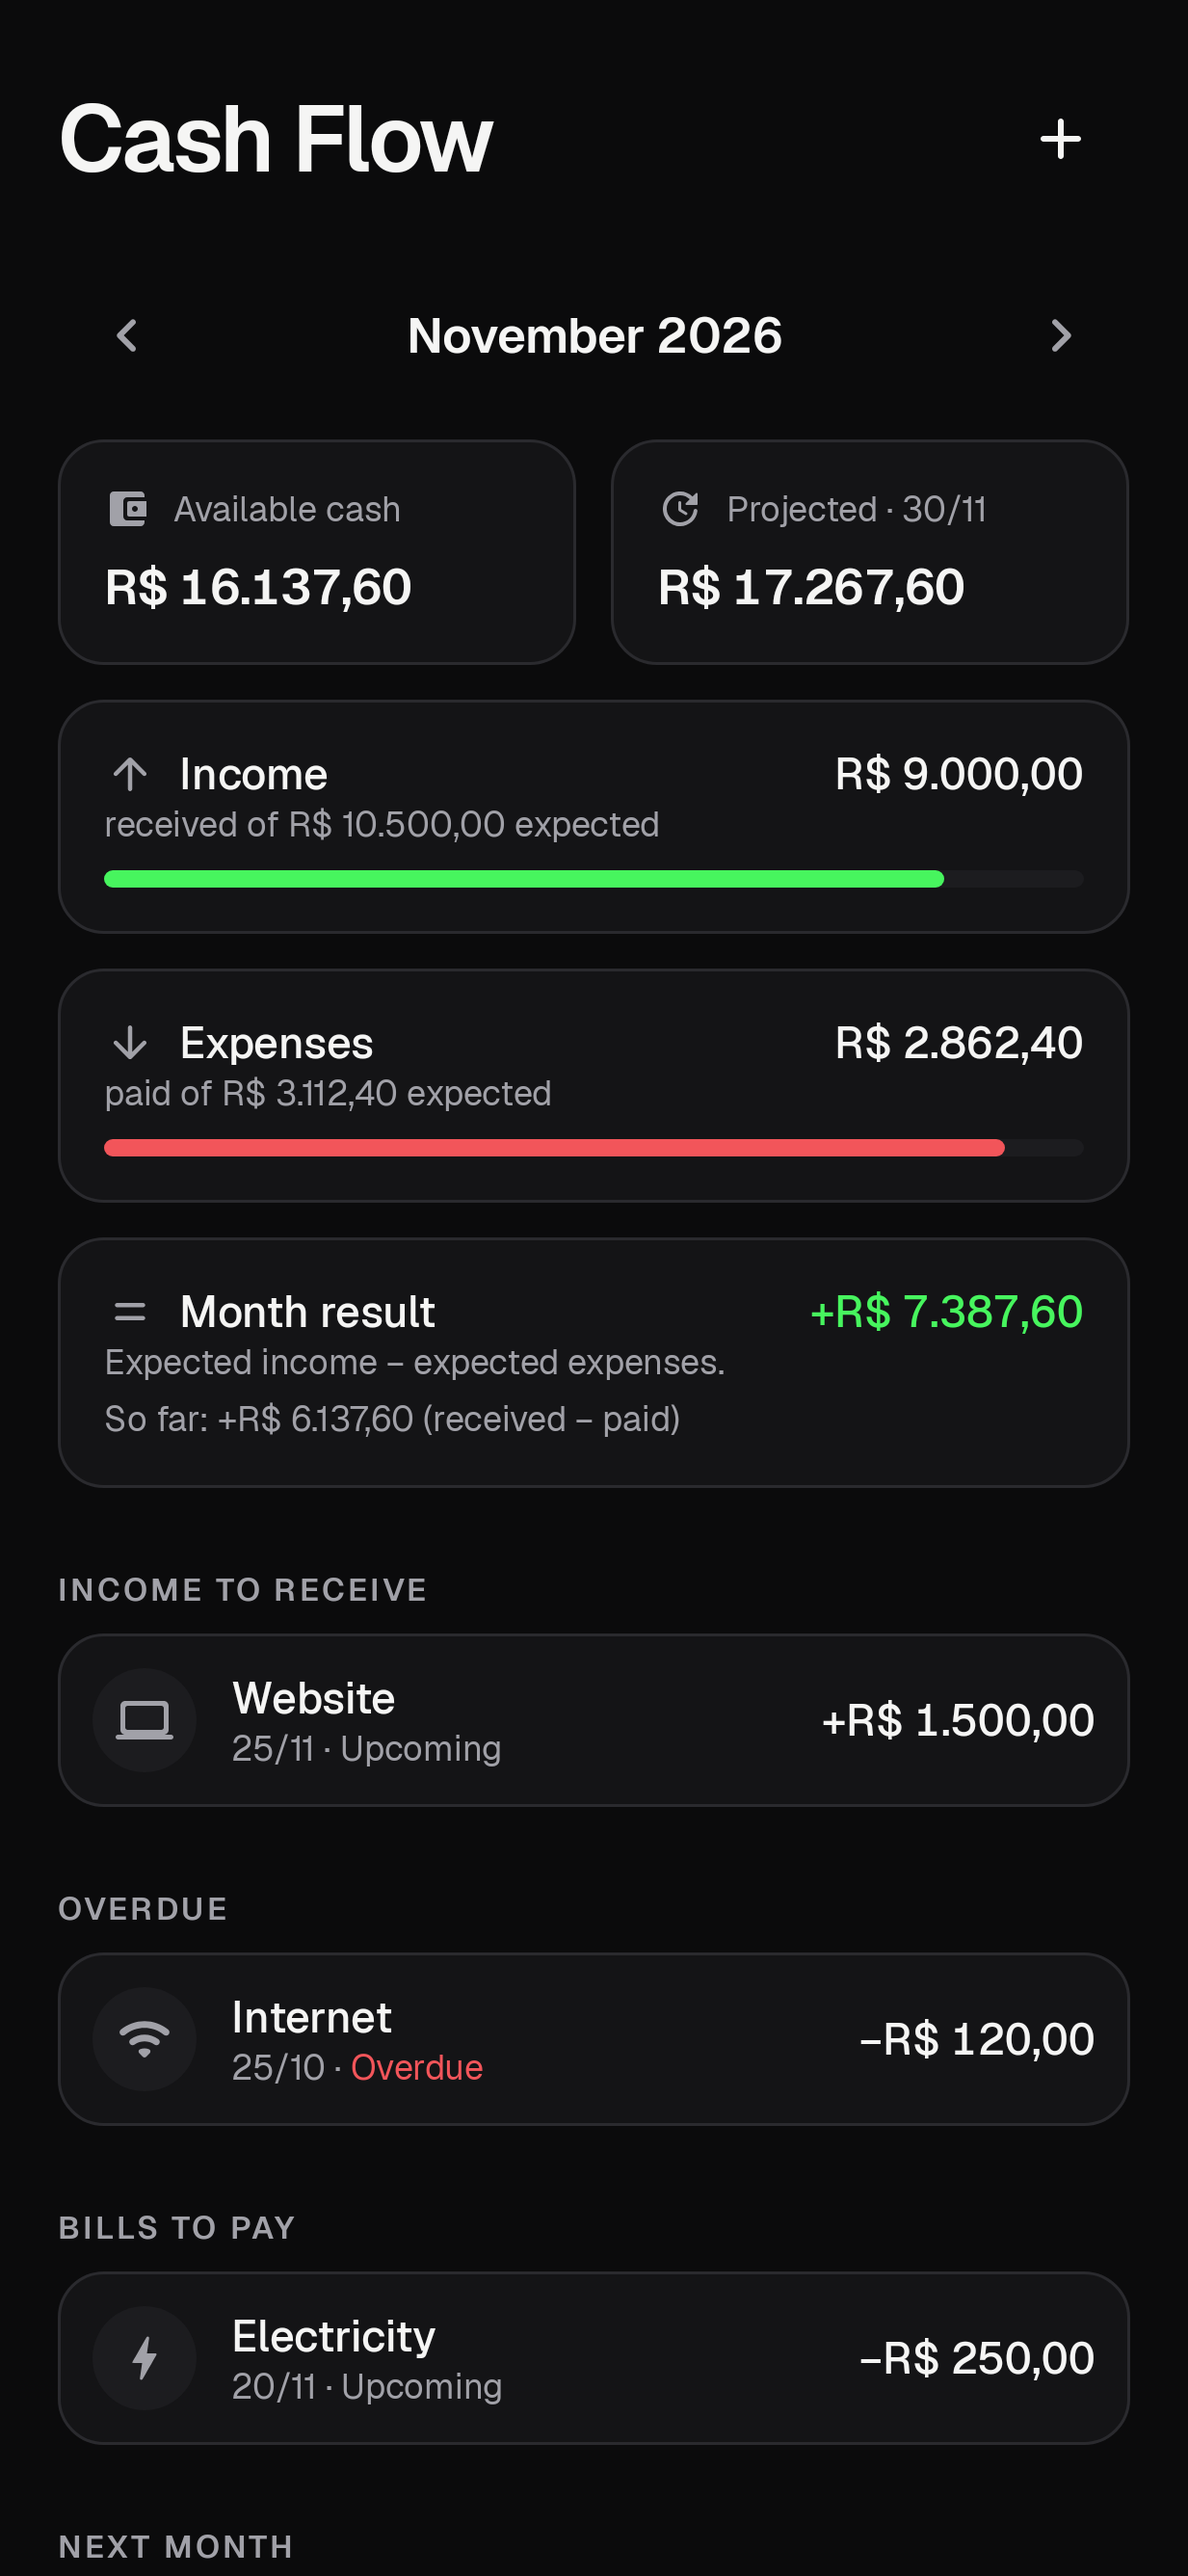
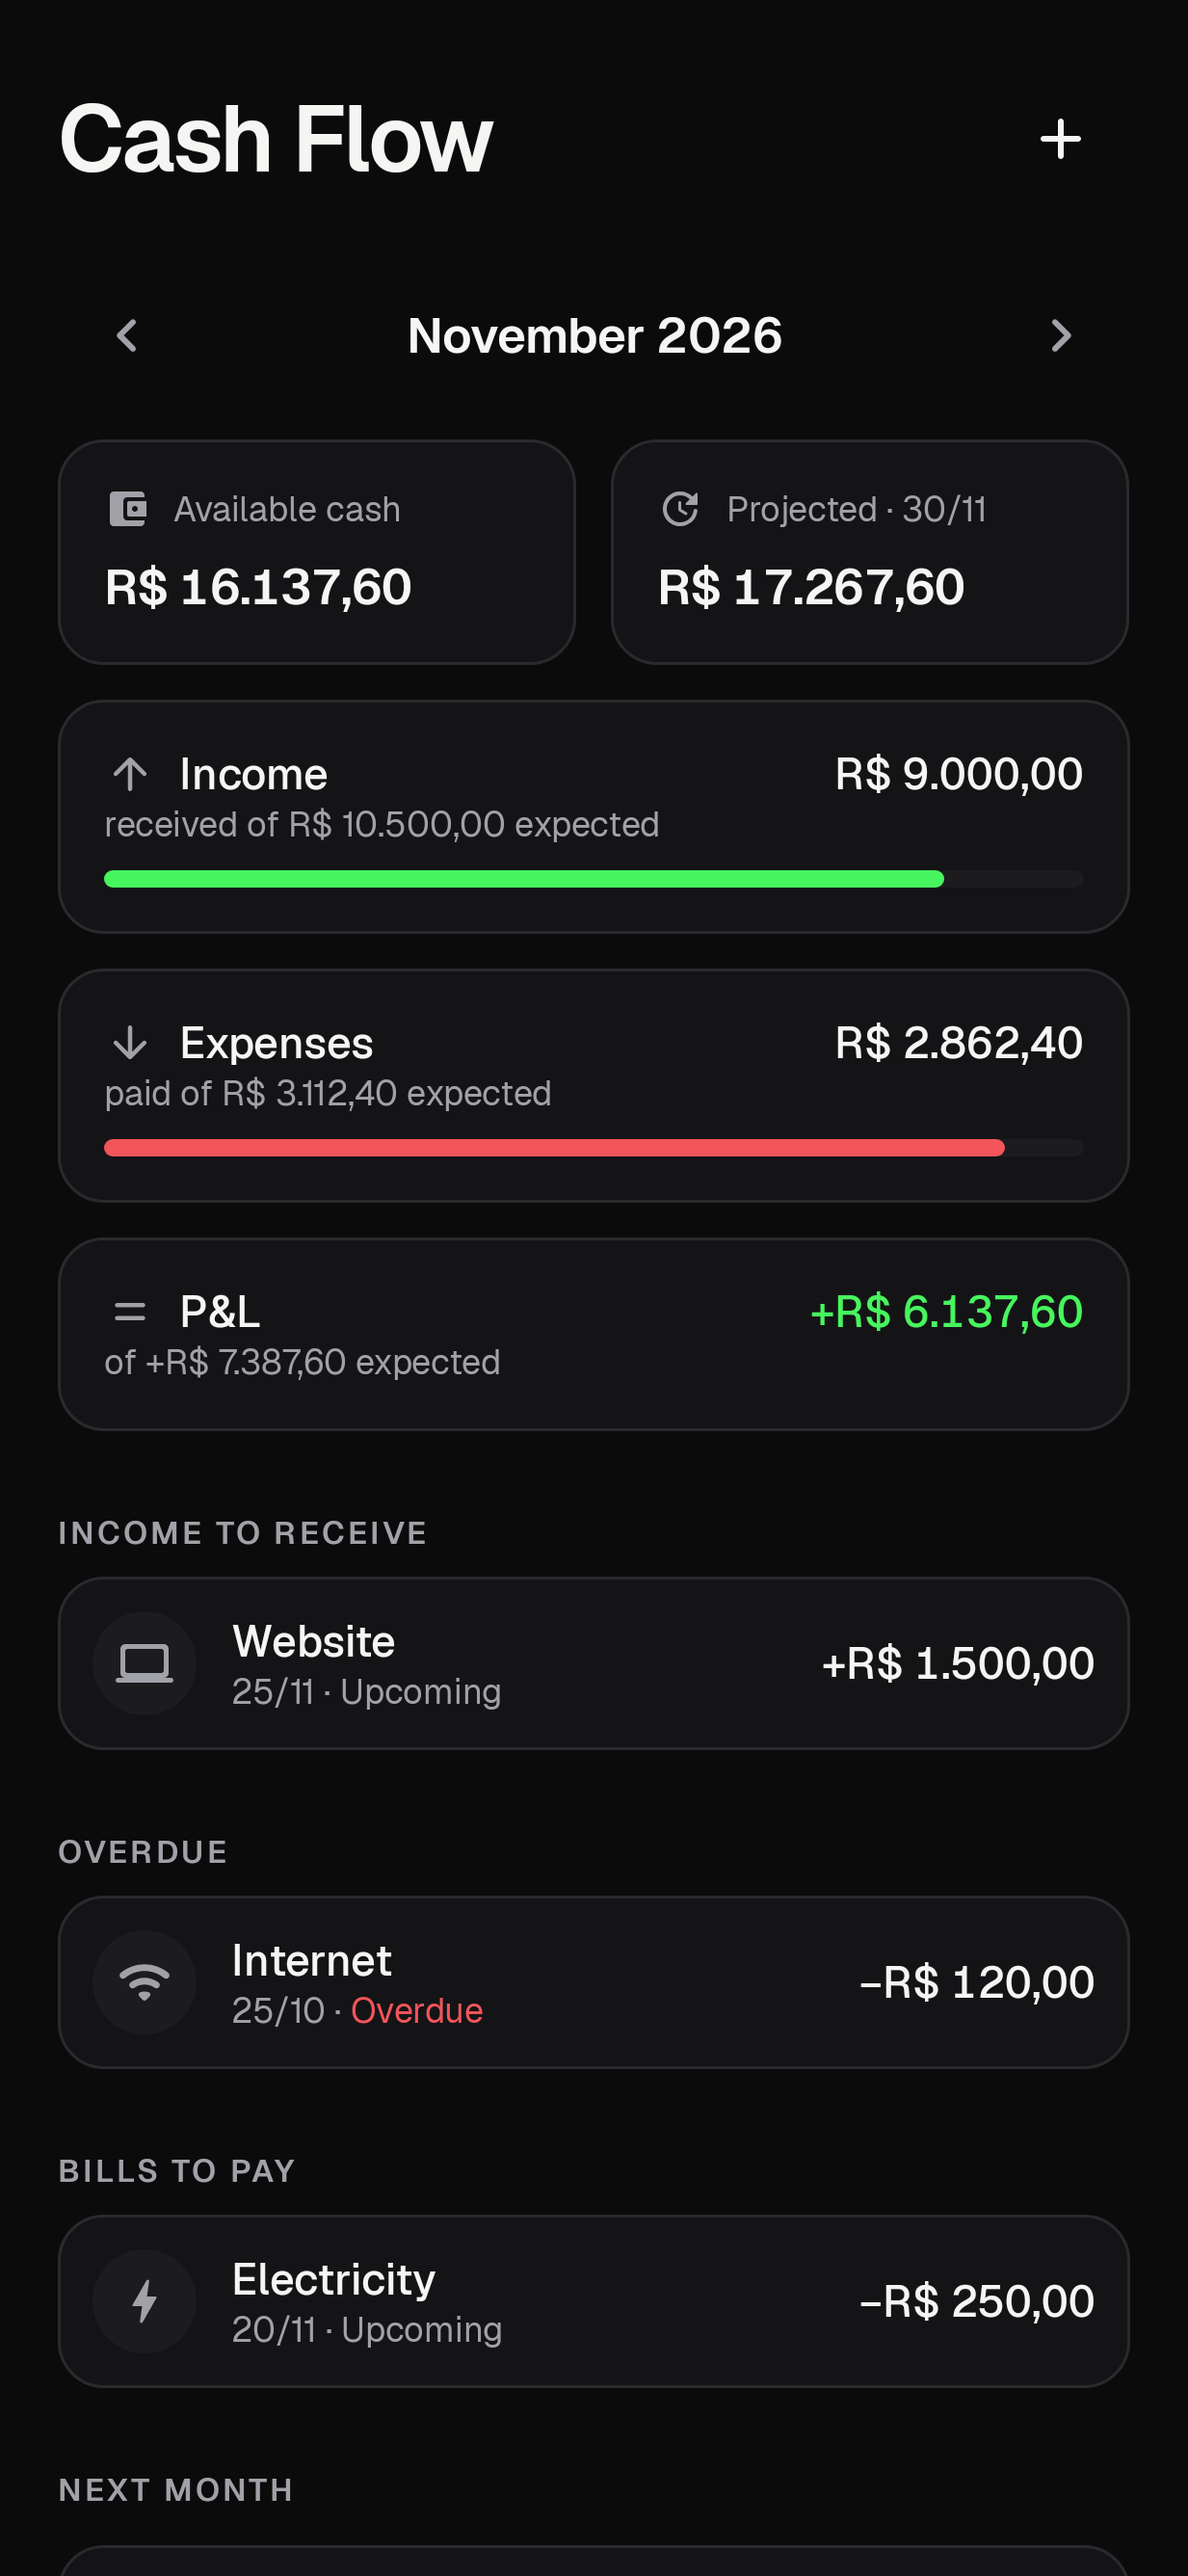
docs: describe the P&L and the monthly History, refresh screenshots
README, ARCHITECTURE and the manual checklist follow the P&L wording,
the rate living in Settings ("Update now") and History's month plus
Open/Done chips. Overview, Cash Flow and History README screenshots are
re-recorded at the phone size.

diff --git a/docs/ARCHITECTURE.md b/docs/ARCHITECTURE.md
@@ -118,7 +118,7 @@ Confirming stores `actualAmount`, `actualCurrency` (defaults to the occurrence c
 - **Available cash** = `balance(c, today)` per currency; consolidated by converting each currency once at the latest rate.
 - **Projected balance through `t`** = available + Σ pending income (`dueDate ≤ t`, overdue included) − Σ pending expenses (same), per currency, then converted at the latest rate. Each occurrence counts once: confirmed by actual amount on its actual date (already inside the balance), pending by expected amount, cancelled never. "Projected end of month" uses `t = endOfMonth`.
 - **Month summary M:** an occurrence belongs to the month of its `actualDate` when confirmed, or of its `dueDate` when pending. Expected income = Σ confirmed income in M (actual, converted at its actual date) + Σ pending income due in M (expected, converted at the latest rate); received income = Σ confirmed income in M. Same for expenses. "Overdue from earlier months" = PENDING with `dueDate < min(M.start, today)`.
-- **Month result** = expected income − expected expenses of M (green when positive, red when negative), and "so far" = received income − paid expenses. Unlike the projected balance it doesn't include cash already held, and transfers don't count.
+- **P&L** (the month's result) = income − expenses of M. Cash Flow shows it so far (received income − paid expenses; green when positive, red when negative) with the expected figure (expected income − expected expenses) underneath; the Overview's "This month" shows only the expected one. Unlike the projected balance it doesn't include cash already held, and transfers don't count.
 - **Next month forecast** = projected balance through the end of next month; next month's expected income and expenses are shown alongside (not added again).
 - **Balance history** = `balance(c, date)` converted at each date's rate, over the chart's span (3, 6 or 12 months): the first record's day when it falls in the span, then each month's end (today for the current month), so the line shows from the first month of use. Income vs. expenses covers the same span.
 - **Transfers** count in the balance and projections by `cashInflow` (out of cash or into it) but never in income or expenses; the month summary reports them apart (`transfersOut`, `transfersIn`). See "Transfers".
@@ -134,7 +134,7 @@ Confirming stores `actualAmount`, `actualCurrency` (defaults to the occurrence c
   - Range: on the first fetch, from `min(earliest record date − 7 days, today − 30 days)` to today, where "earliest record" is the earliest date in any table. Later, from the last stored BCB date + 1 to today, plus a backfill window `[earliest record − 7 days, first stored BCB date − 1]` when a record is older than the first stored rate.
   - Inserts BCB rows with IGNORE; manual rows are separate and never touched.
   - Every successful response (including an empty 404) updates `lastFetchMs` in `RateStateStore`.
-  - The automatic run (each time the app comes to the foreground, if `lastFetchMs` is older than 6 h) happens only when *Fetch exchange rates* is on. There is no background job: rates are fetched when the app opens or with *Update*. `force = true` (the "Update" button) is an explicit user action: it ignores the 6 h throttle and the switch.
+  - The automatic run (each time the app comes to the foreground, if `lastFetchMs` is older than 6 h) happens only when *Fetch exchange rates* is on. There is no background job: rates are fetched when the app opens or with *Update now* in Settings. `force = true` (that button) is an explicit user action: it ignores the 6 h throttle and the switch.
   - Failures never block the UI: the last known rate stays in use and the error is shown.
 - `BcbRateClient` uses `HttpsURLConnection` (10 s timeouts, `GET`, `Accept: application/json`, generic `User-Agent: MyFinance`), refuses non-HTTPS, and reads at most 1 MiB. `network_security_config.xml` disables cleartext.
 
@@ -143,7 +143,7 @@ Confirming stores `actualAmount`, `actualCurrency` (defaults to the occurrence c
 A transfer moves money between cash and an asset (1.1.0, user request). It is the only link between Cash and the Portfolio; everything else stays separate.
 
 - `EntryKind` has four values: INCOME, EXPENSE, TRANSFER_OUT (cash → asset, a contribution) and TRANSFER_IN (asset → cash, a withdrawal). `cashInflow` gives the sign for cash; `isTransfer` keeps transfers out of income, expenses and category charts (they have no category). Because the kind is stored, a transfer stays a transfer after its asset is deleted (`assetId` becomes NULL).
-- Transfers are ordinary occurrences: one-time or recurring, pending until confirmed, projected in the cash forecast, listed in History (a "Transfer" chip) and in Cash Flow (their own section and month totals). A blank name takes the asset's.
+- Transfers are ordinary occurrences: one-time or recurring, pending until confirmed, projected in the cash forecast, listed in History (in their month) and in Cash Flow (their own section and month totals). A blank name takes the asset's.
 - **Confirmation records the asset side** (`TransferFlows.sync`, inside the same transaction): TRANSFER_OUT creates a CONTRIBUTION, TRANSFER_IN a WITHDRAWAL, linked by `asset_flow.occurrenceId`, dated the actual date, in the asset's currency — the same amount when the currencies match, otherwise the amount the user typed (prefilled at the date's PTAX; the broker's figure is what counts). Undoing the confirmation or deleting the transfer removes the flow; a confirmed transfer can't change its asset or direction (undo it first).
 - **From the asset side**, contribute / withdraw / close and a new asset's initial investment have a "From cash" / "To cash" switch: it records a confirmed one-time transfer linked to the flow (a disposal keeps its own kind). Deleting such a flow deletes a one-time transfer, or puts a recurring one back to pending. A transfer that created the initial investment can't be undone (the asset needs it): deleting it unlinks the flow, which stays as the initial investment.
 - **Asset lifecycle:** closing a position deactivates its recurring transfers (future pending ones removed); new transfers to a closed position are refused. Deleting an asset deletes its recurring and pending transfers; done ones stay in the cash history.

diff --git a/README.md b/README.md
@@ -9,12 +9,12 @@ A private, offline-first Android app to manage cash flow, a portfolio of investm
 ## Features
 
 - **Cash flow:** one-time and recurring income and expenses (daily, weekly, every two weeks, monthly, every two months, quarterly, semiannually, annually or custom), with month-end and leap-year handling and no duplicate occurrences. Confirm each payment or receipt with the real amount, date and a note; the expected amount stays separate and future months are untouched.
-- **Month at a glance:** expected vs. received income, expected vs. paid expenses, the month's result (what is left over or short), available cash, projected end-of-month balance, overdue and pending bills, income to receive, transfers and next month's forecast. Charts for income vs. expenses, balance evolution (3, 6 or 12 months) and spending by category.
+- **Month at a glance:** expected vs. received income, expected vs. paid expenses, the month's P&L (received − paid so far, of what is expected; what is left over or short), available cash, projected end-of-month balance, overdue and pending bills, income to receive, transfers and next month's forecast. Charts for income vs. expenses, balance evolution (3, 6 or 12 months) and spending by category.
 - **Transfers:** move money between cash and an investment (or back) as a transfer: one-time or recurring, confirmed like a bill, recorded on both sides at once and never counted as income or expense. Contributions, withdrawals and sales on an asset can come from or go to cash, including the initial investment.
-- **History:** every transaction grouped by month, with accent-insensitive search and filters by month, type, status, category, currency and date.
+- **History:** one month at a time, like Cash Flow, with accent-insensitive search and two filters: open (overdue, pending, upcoming) and done (paid, received, transferred).
 - **Portfolio:** fixed income, stocks, ETFs, REITs, funds, crypto, business ownership, startup equity, real estate, vehicles, loans receivable and custom categories, with your available cash shown alongside for reference. Contributions, withdrawals, partial sales and closed positions are recorded apart from valuations, which keep their full history. Value, invested, gain/loss and a clearly labelled simple return; an allocation donut you can tap to filter; charts by period (1M, 3M, 6M, 1Y, All) built only from what you recorded.
 - **Net worth:** cash + investments + personal assets, with the composition always visible, in reais or dollars with one tap on the flag. A "+" on the Overview adds a transaction or an asset.
-- **BRL and USD:** every transaction, balance and asset has its currency. Totals and transactions convert to the currency of the flag at the top of the Overview, with the official PTAX rate from the Banco Central do Brasil, fetched when you open the app or with *Update*; manual rates work offline. The rate and its date are always shown, and a total that can't be converted is marked instead of guessed.
+- **BRL and USD:** every transaction, balance and asset has its currency. Totals and transactions convert to the currency of the flag at the top of the Overview, with the official PTAX rate from the Banco Central do Brasil, fetched when you open the app or with *Update now*; manual rates work offline. The rate and its date are in *Settings → Currency and exchange rate*, and a total that can't be converted is marked with "≈" instead of guessed.
 - **Backup:** an encrypted file (AES-256-GCM streaming, key derived from your recovery password) written to a folder you pick and keep in sync with Google Drive (or any cloud) through a sync app. Runs daily and after changes, keeps the last 7, and supports export and restore with integrity checks. CSV export for spreadsheets.
 - **Settings:** opening balances and balance adjustments, categories, default and display currency, currencies in use, number format (1.234,56 or 1,234.56), date format (DD/MM/YYYY or MM/DD/YYYY), dark (default), light or system theme.
 
@@ -47,7 +47,7 @@ Updates are signed with the same key, so `adb install -r` (or installing over) k
 ## Privacy
 
 - Your data stays on the phone: no account, no server, no analytics, no ads.
-- The only network request fetches the public USD/BRL rate from `api.bcb.gov.br` over HTTPS, carrying only a date range. Turn it off in *Settings → Currency and exchange rate*; *Update* then fetches only when you tap it.
+- The only network request fetches the public USD/BRL rate from `api.bcb.gov.br` over HTTPS, carrying only a date range. Turn it off in *Settings → Currency and exchange rate*; *Update now* then fetches only when you tap it.
 - Backups are encrypted before they leave the app. The local database relies on Android's app sandbox and file-based encryption. Details in [`docs/SECURITY.md`](docs/SECURITY.md).
 
 ## Backup to Google Drive (or any cloud)

diff --git a/docs/TESTING.md b/docs/TESTING.md
@@ -37,7 +37,7 @@ Development is done without a device. The items below validate what only the dev
 
 ### 1. Setup
 - [ ] *Settings → Opening balances*: set R$ 10.000,00 for today; Overview shows available cash R$ 10.000,00.
-- [ ] Set a USD opening balance of US$ 500,00; Overview converts it at the PTAX shown at the bottom.
+- [ ] Set a USD opening balance of US$ 500,00; Overview converts it at the PTAX shown in *Settings → Currency and exchange rate* (the screens no longer show the rate at the bottom).
 - [ ] Change number format to `1,234.56` and date format to `MM/DD/YYYY`: every screen follows. Switch back.
 - [ ] With the phone in Portuguese, the app is in Portuguese; *Settings → Language* opens the system per-app language screen (Android 13+).
 
@@ -49,13 +49,15 @@ Development is done without a device. The items below validate what only the dev
 - [ ] Edit the rent amount to R$ 2.600,00 with the next due date next month: past and paid occurrences keep their values.
 - [ ] Cancel an occurrence and restore it; mark a paid one as unpaid.
 - [ ] Add a USD subscription (US$ 20,00) and confirm it paid in BRL (R$ 115,00).
+- [ ] Cash Flow → P&L shows received − paid so far (green or red) with "of … expected" underneath; Overview → This month shows only the expected income, expenses and P&L.
 - [ ] Charts show income vs. expenses, balance evolution and expenses by category; 3M, 6M and 1Y change both; in the first month of use the balance line already shows (opening date → today).
 
 ### 3. History
-- [ ] Search "rent" finds it; filters by type, status, category, currency and date range work; months group correctly.
+- [ ] Opens on the current month and the arrows change it; search "rent" finds it within the month.
+- [ ] *Open* lists what is overdue, pending or upcoming; *Done* what was paid, received or transferred, with balance adjustments; tapping the selected chip again shows the whole month.
 
 ### 4. Exchange rates
-- [ ] With internet, *Update* fetches today's PTAX (or the last business day before ~13:00) and shows its date.
+- [ ] With internet, *Settings → Currency and exchange rate → Update now* fetches today's PTAX (or the last business day before ~13:00) and shows its date.
 - [ ] In airplane mode the app keeps working with the last rate; a manual rate can be entered and is used.
 - [ ] Turning off *Fetch exchange rates* stops automatic requests.
 - [ ] With the app closed for a day, opening it fetches the new rate (there is no background job).
@@ -75,7 +77,7 @@ Development is done without a device. The items below validate what only the dev
 - [ ] On the asset: Withdraw with "Put it in cash": cash goes up; delete that withdrawal: the transfer disappears too (after a confirmation).
 - [ ] New asset with "Take it from cash": cash goes down by the initial investment.
 - [ ] Close a position that has a monthly transfer: the transfer stops; a new transfer to it is refused with a message.
-- [ ] History → Transfer chip lists only transfers; the CSV export has them with the asset name.
+- [ ] Cash Flow → Transfers shows the amount on its title line and "to investment" underneath; History lists the transfer in its month; the CSV export has it with the asset name.
 - [ ] Portfolio → All shows "Cash" (slice and card); tapping the card opens Cash Flow; Value/Invested/Gain don't include it.
 
 ### 6. Overview
